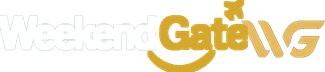
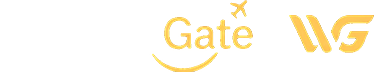
fix(brand): restore clean WeekendGate lockup from approved reference
Replace the over-boldened/faded lockup with a crisp extract of the user-approved logo (medium weight, coordinated plane/swoosh, balanced WG spacing) and soften CSS wordmark weight on non-hero pages.

diff --git a/apps/web/src/app/travela-skin.css b/apps/web/src/app/travela-skin.css
@@ -222,7 +222,7 @@
 .shop-root.wg-new-ui .wg-topbar-logo .wg-logo-word {
   position: relative;
   font-size: clamp(1.28rem, 2.4vw, 1.62rem);
-  font-weight: 900;
+  font-weight: 600;
 }
 
 .shop-root.wg-new-ui .wg-topbar-nav {

diff --git a/apps/web/src/app/shop.css b/apps/web/src/app/shop.css
@@ -88,7 +88,7 @@
 
 .wg-logo-word {
   font-size: 1.55rem;
-  font-weight: 900;
+  font-weight: 600;
   color: var(--exp-navy);
   letter-spacing: -0.03em;
   line-height: 1;
